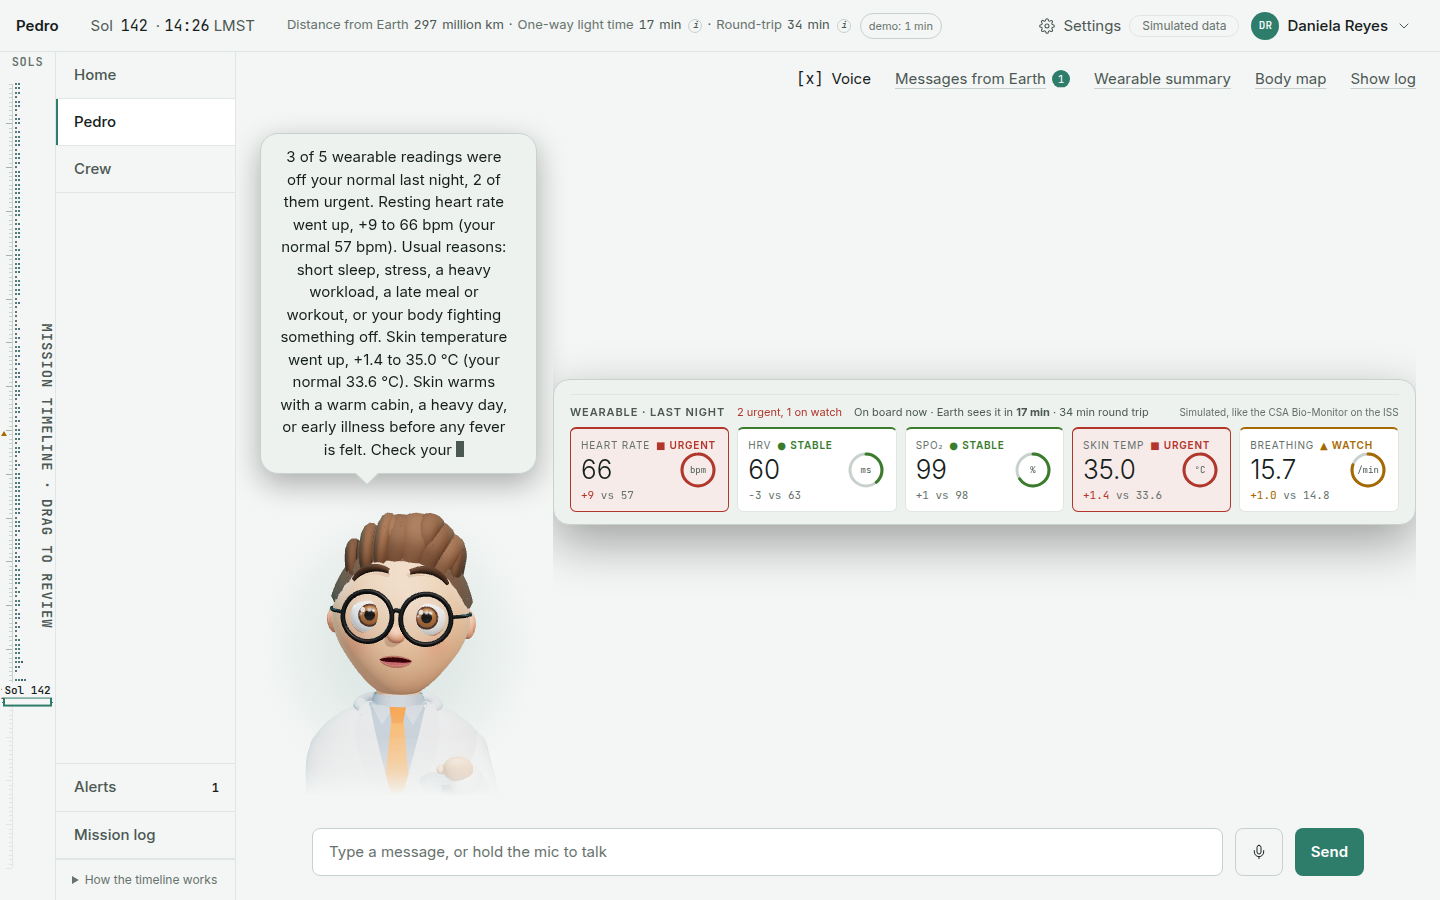
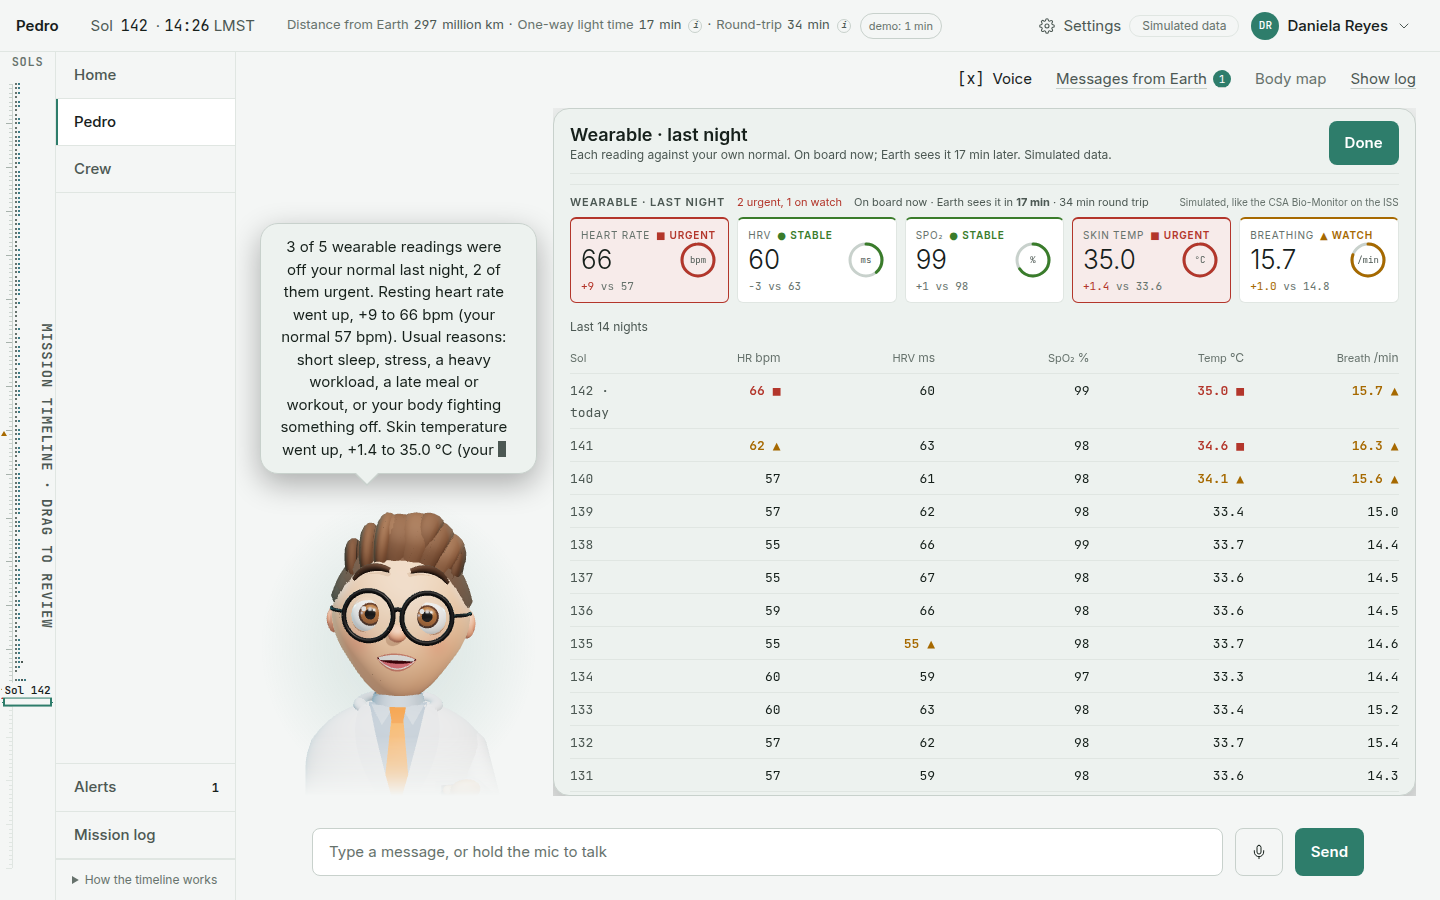
Retake the wearable screenshot on the new wearable board
Claude-Session: https://claude.ai/code/session_01LMzsUyjjmwyiDFHar1XeQn

diff --git a/docs/product/submission/SUBMISSION.md b/docs/product/submission/SUBMISSION.md
@@ -116,7 +116,7 @@ Pedro also counts how much you talk to it and any missed check-ins.
 - Blood oxygen also has fixed floors: below 95% Watch, 92% or lower Urgent ([MedlinePlus](https://medlineplus.gov/lab-tests/pulse-oximetry/)).
 - The readings are simulated for now, tied to each person's simulated day: short sleep and heavy workload push heart rate up and HRV down. A real device would connect over Bluetooth Low Energy, starting with the standard heart-rate service.
 
-![Pedro's wearable summary for Daniela Reyes: five overnight readings against her normal, with heart rate and skin temperature marked Urgent and breathing rate on Watch](https://raw.githubusercontent.com/egoistlabs/openhealth/main/docs/product/submission/app-wearable.png)
+![Pedro's wearable summary for Daniela Reyes: last night's five readings against her normal, heart rate and skin temperature marked Urgent and breathing rate on Watch, with her last 14 nights below](https://raw.githubusercontent.com/egoistlabs/openhealth/main/docs/product/submission/app-wearable.png)
 
 **6. 3D body map: tap where it hurts.** No sensor measures pain or a rash, and the challenge suggests "a human figure where each part of the body is clickable", so the check-in has a 3D body (BodyParts3D anatomy).
 
